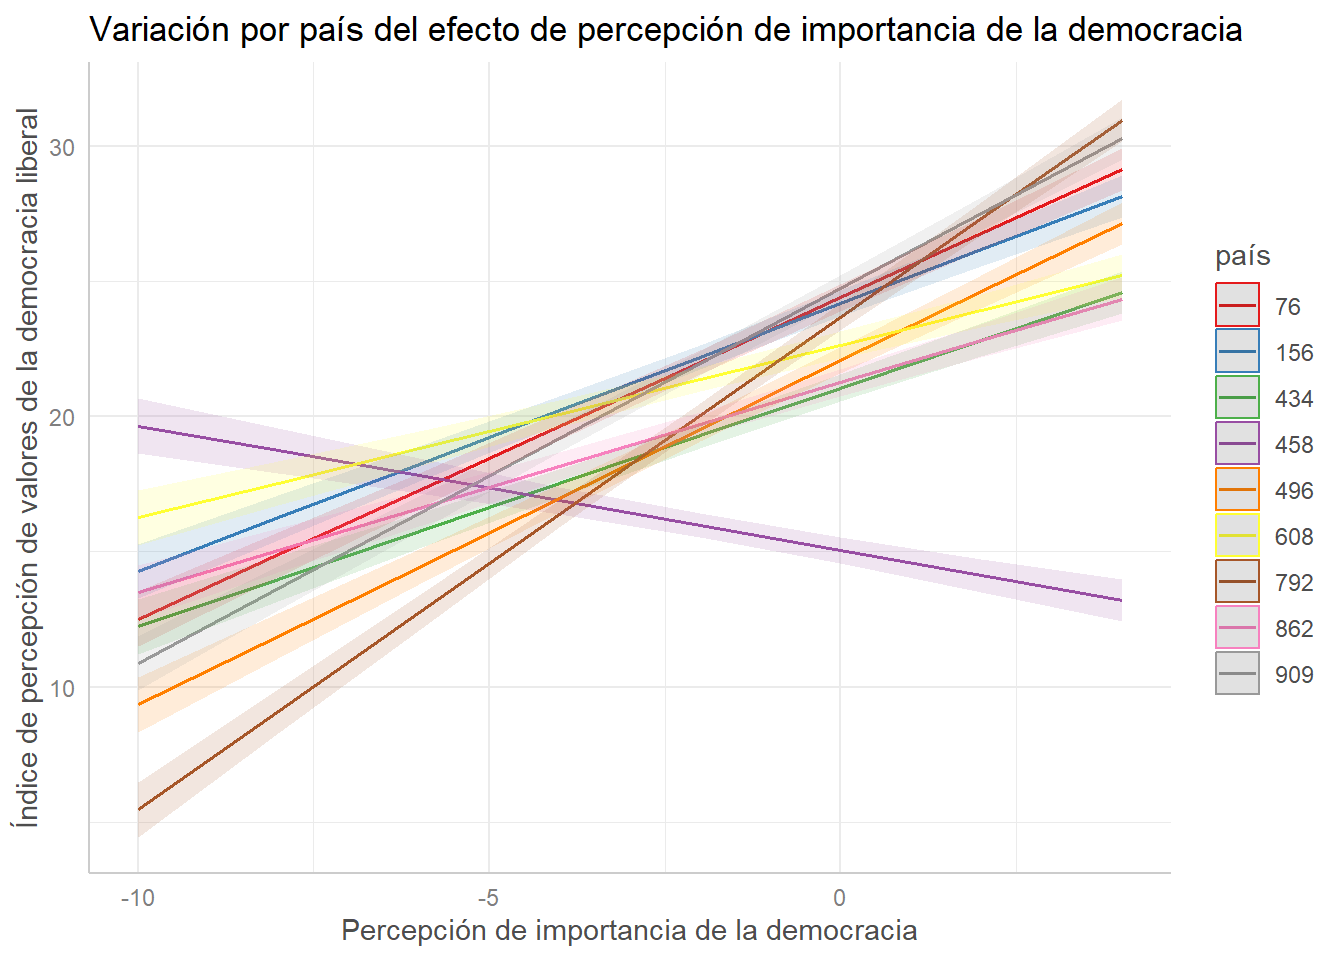
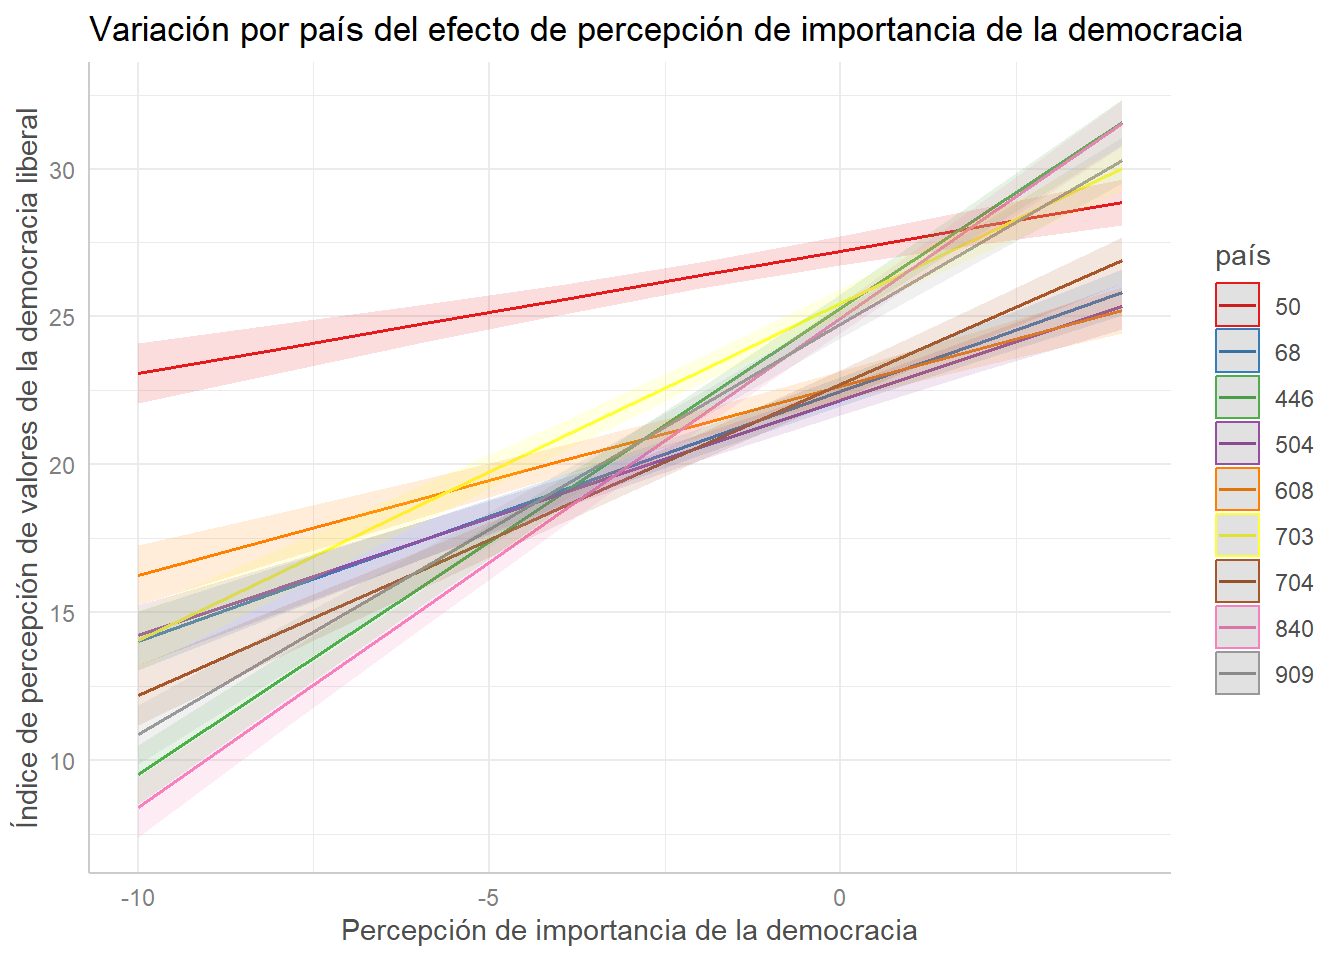
final

diff --git a/informe_grupo_9.html b/informe_grupo_9.html
@@ -365,7 +365,7 @@ Figura&nbsp;1
 </figure>
 </div>
 </div>
-<p>En el <a href="#fig-1" class="quarto-xref">Figura&nbsp;1</a> se observa una relación positiva entre la percepción promedio sobre cuán democrático es un país y el nivel de adhesión a principios de la democracia liberal. Por lo que en los países donde la percepción democrática por parte de sus ciudadanos es más alta, también tienden estos mismos a respaldar y adherir a valores liberales fundamentales de la democracia.</p>
+<p>En la <a href="#fig-1" class="quarto-xref">Figura&nbsp;1</a> se observa una relación positiva entre la percepción promedio sobre cuán democrático es un país y el nivel de adhesión a principios de la democracia liberal. Por lo que en los países donde la percepción democrática por parte de sus ciudadanos es más alta, también tienden estos mismos a respaldar y adherir a valores liberales fundamentales de la democracia.</p>
 <div class="cell tbl-cap-location-top" data-tbl-cap="Relación entre importancia de la democracia por país con índice de adhesión">
 <div id="fig-2" class="quarto-float quarto-figure quarto-figure-center anchored" width="672">
 <figure class="quarto-float quarto-float-fig figure">
@@ -378,8 +378,8 @@ Figura&nbsp;2
 </figure>
 </div>
 </div>
-<p>El <a href="#fig-2" class="quarto-xref">Figura&nbsp;2</a> muestra una clara relación positiva entre el promedio nacional de importancia asignada a vivir en un país democrático y el índice de adhesión a principios de la democracia liberal. Esta pendiente positiva indicaría que en aquellos países donde la democracia es altamente valorada, también existe un mayor grado de internalización de sus principios fundamentales, como las elecciones libres, la igualdad ante la ley y la protección de derechos individuales.</p>
-<p>A diferencia del <a href="#fig-1" class="quarto-xref">Figura&nbsp;1</a>, que mostraba la relación entre la percepción institucional de cuán democrático es un país y la adhesión a principios liberales, aquí se destaca el peso del clima político o cultura cívica.</p>
+<p>La <a href="#fig-2" class="quarto-xref">Figura&nbsp;2</a> muestra una clara relación positiva entre el promedio nacional de importancia asignada a vivir en un país democrático y el índice de adhesión a principios de la democracia liberal. Esta pendiente positiva indicaría que en aquellos países donde la democracia es altamente valorada, también existe un mayor grado de internalización de sus principios fundamentales, como las elecciones libres, la igualdad ante la ley y la protección de derechos individuales.</p>
+<p>A diferencia de la <a href="#fig-1" class="quarto-xref">Figura&nbsp;1</a>, que mostraba la relación entre la percepción institucional de cuán democrático es un país y la adhesión a principios liberales, aquí se destaca el peso del clima político o cultura cívica.</p>
 </section>
 <section id="modelos" class="level2" data-number="7.2">
 <h2 data-number="7.2" class="anchored" data-anchor-id="modelos"><span class="header-section-number">7.2</span> Modelos</h2>
